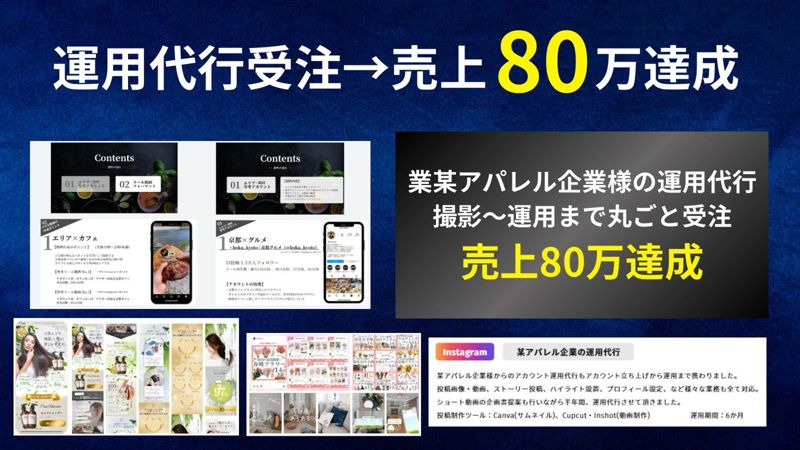
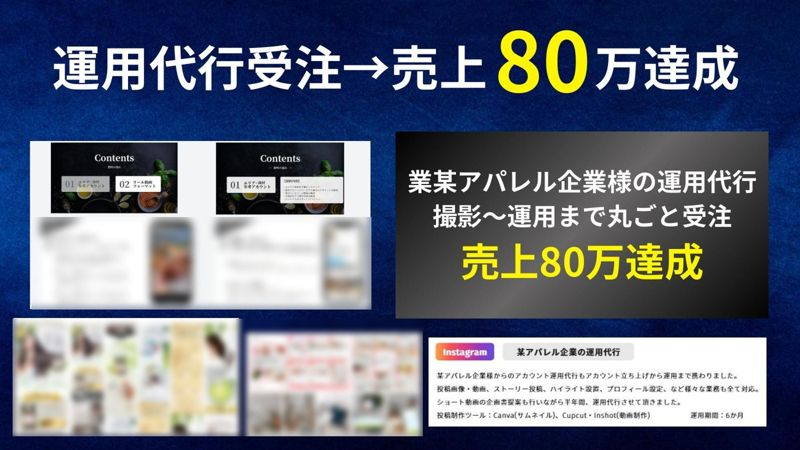
voice-biz：店名・アカウント名をぼかし、声を受注につながった3件に

Changed region(s): [[0.0, 0.4667, 0.5312, 0.9956]]

diff --git a/voice-biz/index.html b/voice-biz/index.html
@@ -244,8 +244,7 @@ footer b{display:block;font:900 13px var(--num);letter-spacing:.24em;margin-bott
   <div class="grid wide">
     <div class="it glass" data-img="img/g11.jpg"><img loading="lazy" src="img/g11_s.jpg" alt="サポートを受けた方の成果"></div>
     <div class="it glass" data-img="img/g13.jpg"><img loading="lazy" src="img/g13_s.jpg" alt="サポートを受けた方の成果"></div>
-    <div class="it glass" data-img="img/g20.jpg"><img loading="lazy" src="img/g20_s.jpg" alt="サポートを受けた方の成果"></div>
-    <div class="it glass" data-img="img/g22.jpg"><img loading="lazy" src="img/g22_s.jpg" alt="サポートを受けた方の成果"></div>
+    <div class="it glass" data-img="img/g19.jpg"><img loading="lazy" src="img/g19_s.jpg" alt="サポートを受けた方の成果"></div>
   </div>
 </section>
 
